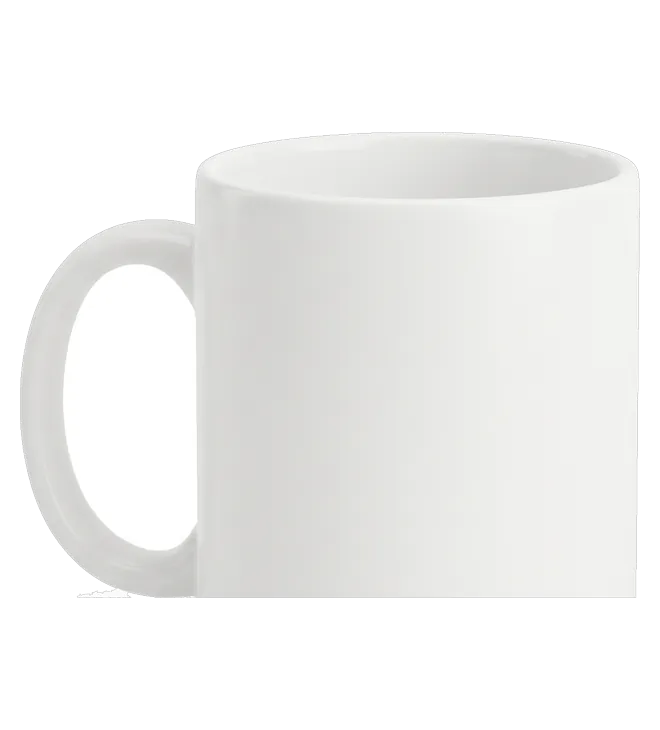
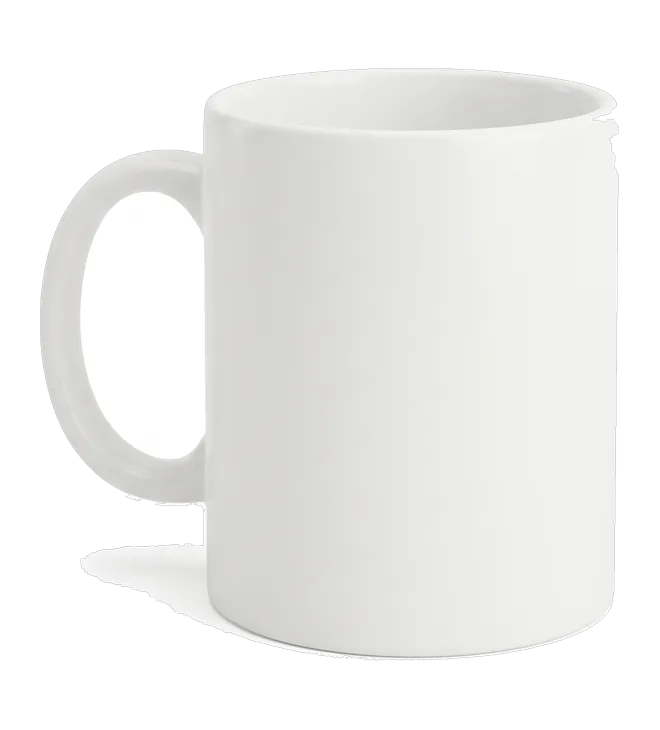
Чип нанесення без картинки, а перемикач боків легше вцілити
Дві правки з показу (Артем, 12.09.2026).

Чип у рядку позиції більше не носить ескіз товару: на 18 px горнятко читалось
сірою плямою й налазило на підпис. Пара «Деколь · місце?» словами каже те
саме й точніше, а товар у смузі вже названий чипом виду ліворуч.

Перемикач боків виріс із 24 до 32 px і взяв більший відступ: у нього цілять
мишею на ходу, а на горнятку підписи довгі — «Ручка праворуч».

Різак ескізів дістав два ножі проти м'якої тіні: суворий поріг для ПОШУКУ
тіла (фінальна маска лишається м'якою, інакше майже біла тканина зникає) і
різ знизу. На горнятку вони тінь до кінця не беруть — наліт підлоги 240-246
проти фону 249 лежить упритул до кераміки, — тож картинки горнятка Артем
обрізає сам. Скрипт приймає готові файли без жодного з цих аргументів.

Changed region(s): [[0.0303, 0.0904, 0.9697, 0.9041], [0.8485, 0.8438, 0.8788, 0.874]]

diff --git a/src/features/quotes/quote-details/ImprintChips.tsx b/src/features/quotes/quote-details/ImprintChips.tsx
@@ -6,7 +6,7 @@ import { Input } from "@/components/ui/input";
 import { Popover, PopoverContent, PopoverTrigger } from "@/components/ui/popover";
 
 import { ImprintPickerDialog, type ImprintProduct } from "./ImprintPickerDialog";
-import { viewOfLabel, type ImprintSheet } from "./imprintSheets";
+import type { ImprintSheet } from "./imprintSheets";
 import type { QuoteImportDraftImprint } from "@/features/quotes/quote-import/types";
 import { cn } from "@/lib/utils";
 
@@ -433,9 +433,10 @@ function ListRow({
  * Через них 204 нанесення з 332 і поїхали з чужим рядком «Індивідуальний».
  * Тепер двері одні й ведуть туди, де питають обидва питання одразу.
  *
- * МІНІАТЮРА ПОКАЗУЄ МІСЦЕ, А НЕ ТОВАР. Той самий ескіз, що у вікні, зменшений
- * до 18 px із підсвіченою рамкою: у рядку видно «де», не читаючи слова.
- * Товар у цій смузі вже названий чипом виду ліворуч, дублювати його нічим.
+ * БЕЗ МІНІАТЮРИ. Спершу чип носив ескіз товару з підсвіченою зоною, але на
+ * 18 px горнятко читалось сірою плямою й налазило на підпис (Артем,
+ * 12.09.2026). Пара «ДТФ · Груди» словами каже те саме й точніше — а товар у
+ * цій смузі вже названий чипом виду ліворуч.
  */
 function SheetChips({
   imprints,
@@ -483,7 +484,6 @@ function SheetChips({
               title={`${methodName(imprint.methodId)} · ${imprint.positionLabel ?? "місце не вказане"}`}
               className="max-w-[210px] pr-6"
             >
-              <ZoneThumb sheet={sheet} label={imprint.positionLabel} />
               <span className="min-w-0 truncate">
                 {methodName(imprint.methodId)}
                 <span className="text-muted-foreground"> · </span>
@@ -519,28 +519,3 @@ function SheetChips({
   );
 }
 
-/** Ескіз 18 px із підсвіченою зоною: «де» видно в рядку без слів. */
-function ZoneThumb({ sheet, label }: { sheet: ImprintSheet; label: string | null }) {
-  const view = viewOfLabel(sheet, label) ?? sheet.views[0]?.id;
-  const src = sheet.views.find((one) => one.id === view)?.src;
-  const zone = sheet.zones.find(
-    (one) => one.view === view && one.label.toLowerCase() === (label ?? "").trim().toLowerCase()
-  );
-  if (!src) return null;
-  return (
-    <span className="relative block h-5 w-[18px] shrink-0" aria-hidden>
-      <img src={src} alt="" className="h-full w-full object-contain opacity-80" />
-      {zone ? (
-        <span
-          className="absolute rounded-[1px] bg-primary"
-          style={{
-            left: `${zone.x * 100}%`,
-            top: `${zone.y * 100}%`,
-            width: `${zone.w * 100}%`,
-            height: `${zone.h * 100}%`,
-          }}
-        />
-      ) : null}
-    </span>
-  );
-}

diff --git a/src/features/quotes/quote-details/ImprintPickerDialog.tsx b/src/features/quotes/quote-details/ImprintPickerDialog.tsx
@@ -249,7 +249,9 @@ export function ImprintPickerDialog({
                     aria-pressed={one.id === view}
                     onClick={() => setView(one.id)}
                     className={cn(
-                      "rounded-full px-3 py-1 text-xs font-medium transition-colors duration-base ease-out motion-reduce:transition-none",
+                      // Кнопка на 32 px, а не 24: у неї цілять мишею на ходу,
+                      // і на горнятку підписи довгі («Ручка праворуч»).
+                      "h-8 rounded-full px-4 text-sm font-medium transition-colors duration-base ease-out motion-reduce:transition-none",
                       one.id === view
                         ? "bg-foreground text-background"
                         : "text-muted-foreground hover:bg-muted hover:text-foreground"

diff --git a/scripts/prep-imprint-asset.py b/scripts/prep-imprint-asset.py
@@ -17,12 +17,27 @@ from PIL import Image, ImageDraw, ImageFilter
 
 SRC, OUT_DIR, SLUG = sys.argv[1], sys.argv[2], sys.argv[3]
 
-# Необов'язковий четвертий аргумент — де відрізати маску знизу, часткою висоти
-# КАДРУ. Потрібен там, де рендер має м'яку тінь під предметом: у горнятка вона
-# тієї самої яскравості, що кераміка (заміряно: тінь 208-238, кераміка 211-228),
-# тож ані порогом, ані ерозією її не відділити — вона торкається дна по всій
-# ширині. Єдине, чим вона відрізняється, — це те, що вона НИЖЧЕ предмета.
-CUT_BELOW = float(sys.argv[4]) if len(sys.argv) > 4 else None
+# Два необов'язкові ножі понад типовий розбір.
+#
+# ЧЕТВЕРТИЙ АРГУМЕНТ — наскільки суворіший поріг ПОШУКУ ТІЛА (не фінальної
+# маски). Фінальна маска завжди м'яка (фон мінус 3), бо тканина буває майже
+# білою. Але м'який поріг ловить і м'яку тінь: у рендері горнятка наліт
+# підлоги має 240-246 при фоні 249. Суворий поріг (237) тінь відкидає, зате
+# вигризає найсвітліші вінця кераміки — тому ним лише ЗНАХОДИМО зв'язне тіло,
+# а контур повертаємо перетином м'якої маски з трохи розширеним тілом.
+#
+CUT_OFFSET = float(sys.argv[4]) if len(sys.argv) > 4 else 3.0
+CUT_BELOW = float(sys.argv[5]) if len(sys.argv) > 5 and sys.argv[5] else None
+
+# ШОСТИЙ — скільки проходів ерозії зробити, шукаючи «тіло» предмета.
+#
+# Це головний ніж проти м'якої тіні. Поріг тут не працює в обидва боки: у
+# горнятка наліт підлоги (240-246) і найсвітліші вінця кераміки (майже 249)
+# лежать по один бік будь-якої межі — суворіший поріг вигризав вінця ззаду,
+# а наліт лишав. Зате наліт ТОНКИЙ, а горнятко товсте: кілька проходів
+# ерозії рвуть перемичку між ними, далі від центру заливається тільки тіло,
+# і форма повертається розширенням назад. Нуль — не чіпати.
+ERODE = int(sys.argv[6]) if len(sys.argv) > 6 else 0
 
 CANVAS = (660, 730)   # полотно одного боку, px (показ ~330 px, тобто 2x)
 MARGIN = 20
@@ -34,7 +49,8 @@ gray = img.convert("L")
 px = gray.load()
 
 bg = px[2, 2]
-CUT = bg - 3           # маска товару: ловимо навіть майже білу тканину
+CUT = bg - 3           # м'який поріг: ловимо навіть майже білу тканину
+CORE = bg - CUT_OFFSET # суворий: ним шукаємо ТІЛО, без м'якої тіні довкола
 CUT_SPLIT = bg - 20    # пошук проміжку: суворіше, інакше JPEG-шум = «вміст»
 print(f"джерело {W}x{H}; фон {bg}; поріг маски {CUT}, поріг розрізу {CUT_SPLIT}")
 
@@ -87,6 +103,40 @@ def garment_mask(half):
                     best, seed = p[x, y], (x, y)
     if seed is None:
         raise SystemExit("не знайшов товару в половині кадру")
+
+    # Ерозія шукає тіло без тонких приростів; заливка йде вже по ньому, а
+    # потім форма вертається розширенням і перетином із вихідними кандидатами
+    # — щоб предмет не схуднув на ширину ерозії.
+    if CORE < CUT:
+        strict = Image.new("L", (w, h), 255)
+        sp = strict.load()
+        for y in range(min(h, floor)):
+            for x in range(w):
+                if p[x, y] < CORE:
+                    sp[x, y] = 0
+        if sp[seed[0], seed[1]] != 0:
+            inside = [(x, y) for y in range(0, h, 2) for x in range(0, w, 2) if sp[x, y] == 0]
+            if not inside:
+                raise SystemExit("суворий поріг з'їв предмет — зменшіть четвертий аргумент")
+            seed = min(inside, key=lambda pt: p[pt[0], pt[1]])
+        ImageDraw.floodfill(strict, seed, 128, thresh=0)
+
+        body = Image.new("L", (w, h), 0)
+        bp = body.load()
+        for y in range(h):
+            for x in range(w):
+                if sp[x, y] == 128:
+                    bp[x, y] = 255
+        # Розширюємо тіло назад: суворий поріг зрізає з нього світлий край, і
+        # без цього предмет вийшов би обгризеним (вінця горнятка ззаду).
+        for _ in range(max(ERODE, 1)):
+            body = body.filter(ImageFilter.MaxFilter(5))
+        bp = body.load()
+        for y in range(h):
+            for x in range(w):
+                if cp[x, y] == 0 and bp[x, y] == 0:
+                    cp[x, y] = 255
+
     ImageDraw.floodfill(cand, seed, 128, thresh=0)   # товар → 128
 
     # 3. діри: усе не-товар, не сполучене з рамкою, теж товар
